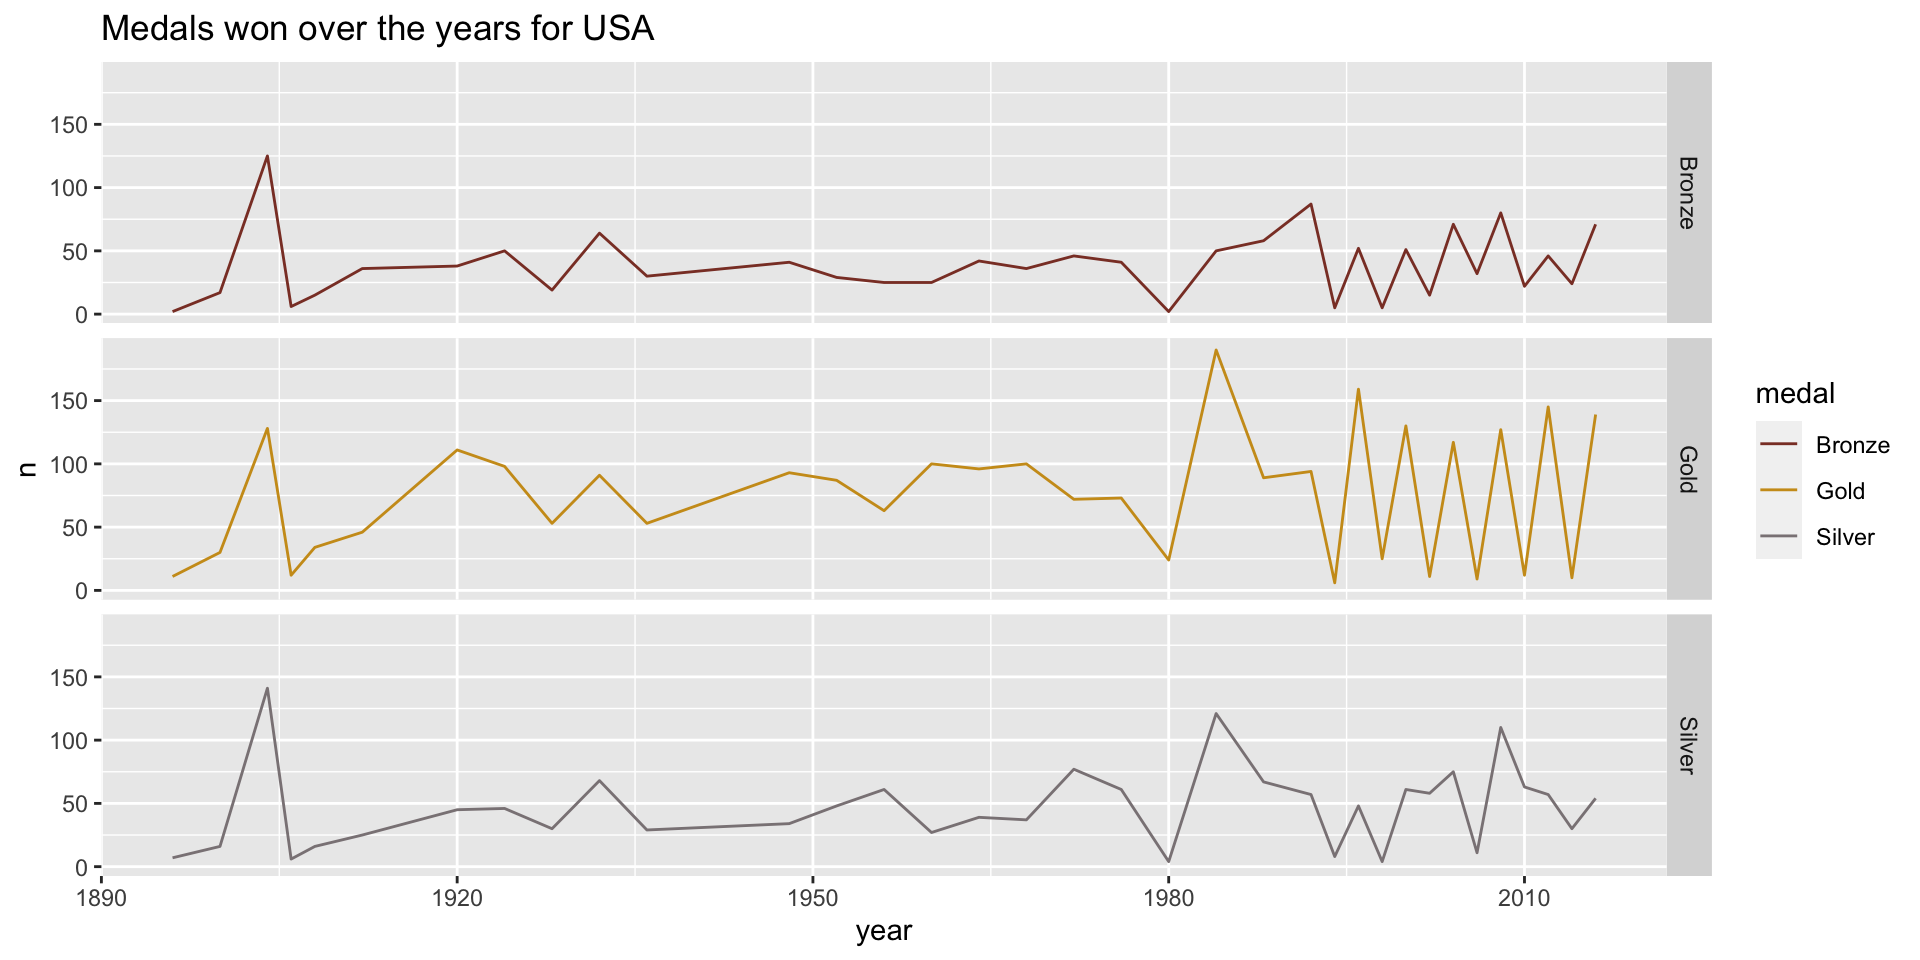
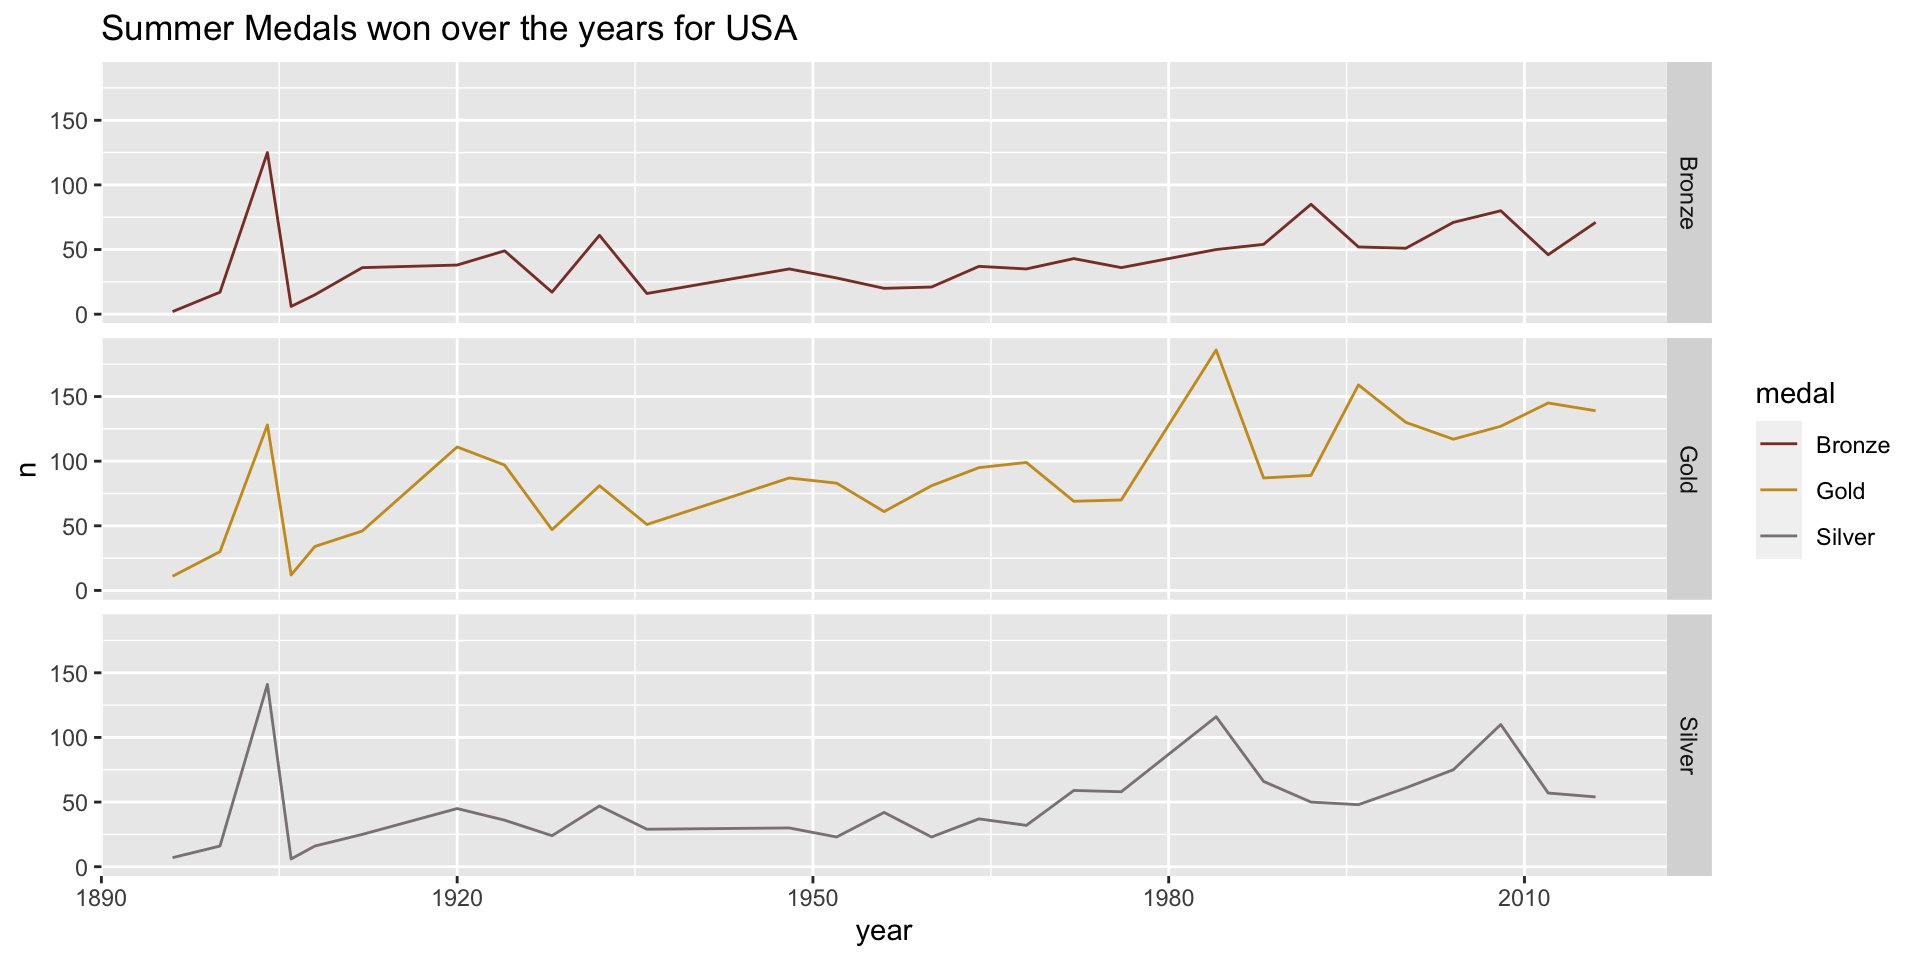
fixed overlaping issue and put comment on feedback

diff --git a/quarto_presentation.html b/quarto_presentation.html
@@ -7,7 +7,7 @@
 <link href="quarto_presentation_files/libs/quarto-html/tippy.css" rel="stylesheet">
 <link href="quarto_presentation_files/libs/quarto-html/quarto-html.min.css" rel="stylesheet" data-mode="light">
 <link href="quarto_presentation_files/libs/quarto-html/quarto-syntax-highlighting.css" rel="stylesheet" id="quarto-text-highlighting-styles"><meta charset="utf-8">
-  <meta name="generator" content="quarto-1.1.251">
+  <meta name="generator" content="quarto-1.1.189">
 
   <title>Olympic Dataset Presentation</title>
   <meta name="apple-mobile-web-app-capable" content="yes">
@@ -481,21 +481,21 @@
 <div class="cell-output cell-output-stdout">
 <pre><code>Rows: 271,116
 Columns: 15
-$ ID     &lt;int&gt; 1, 2, 3, 4, 5, 5, 5, 5, 5, 5, 6, 6, 6, 6, 6, 6, 6, 6, 7, 7, 7, ~
-$ Name   &lt;chr&gt; "A Dijiang", "A Lamusi", "Gunnar Nielsen Aaby", "Edgar Lindenau~
-$ Sex    &lt;chr&gt; "M", "M", "M", "M", "F", "F", "F", "F", "F", "F", "M", "M", "M"~
-$ Age    &lt;int&gt; 24, 23, 24, 34, 21, 21, 25, 25, 27, 27, 31, 31, 31, 31, 33, 33,~
-$ Height &lt;int&gt; 180, 170, NA, NA, 185, 185, 185, 185, 185, 185, 188, 188, 188, ~
-$ Weight &lt;dbl&gt; 80, 60, NA, NA, 82, 82, 82, 82, 82, 82, 75, 75, 75, 75, 75, 75,~
-$ Team   &lt;chr&gt; "China", "China", "Denmark", "Denmark/Sweden", "Netherlands", "~
-$ NOC    &lt;chr&gt; "CHN", "CHN", "DEN", "DEN", "NED", "NED", "NED", "NED", "NED", ~
-$ Games  &lt;chr&gt; "1992 Summer", "2012 Summer", "1920 Summer", "1900 Summer", "19~
-$ Year   &lt;int&gt; 1992, 2012, 1920, 1900, 1988, 1988, 1992, 1992, 1994, 1994, 199~
-$ Season &lt;chr&gt; "Summer", "Summer", "Summer", "Summer", "Winter", "Winter", "Wi~
-$ City   &lt;chr&gt; "Barcelona", "London", "Antwerpen", "Paris", "Calgary", "Calgar~
-$ Sport  &lt;chr&gt; "Basketball", "Judo", "Football", "Tug-Of-War", "Speed Skating"~
-$ Event  &lt;chr&gt; "Basketball Men's Basketball", "Judo Men's Extra-Lightweight", ~
-$ Medal  &lt;chr&gt; NA, NA, NA, "Gold", NA, NA, NA, NA, NA, NA, NA, NA, NA, NA, NA,~</code></pre>
+$ ID     &lt;int&gt; 1, 2, 3, 4, 5, 5, 5, 5, 5, 5, 6, 6, 6, 6, 6, 6, 6, 6, 7, 7, 7, …
+$ Name   &lt;chr&gt; "A Dijiang", "A Lamusi", "Gunnar Nielsen Aaby", "Edgar Lindenau…
+$ Sex    &lt;chr&gt; "M", "M", "M", "M", "F", "F", "F", "F", "F", "F", "M", "M", "M"…
+$ Age    &lt;int&gt; 24, 23, 24, 34, 21, 21, 25, 25, 27, 27, 31, 31, 31, 31, 33, 33,…
+$ Height &lt;int&gt; 180, 170, NA, NA, 185, 185, 185, 185, 185, 185, 188, 188, 188, …
+$ Weight &lt;dbl&gt; 80, 60, NA, NA, 82, 82, 82, 82, 82, 82, 75, 75, 75, 75, 75, 75,…
+$ Team   &lt;chr&gt; "China", "China", "Denmark", "Denmark/Sweden", "Netherlands", "…
+$ NOC    &lt;chr&gt; "CHN", "CHN", "DEN", "DEN", "NED", "NED", "NED", "NED", "NED", …
+$ Games  &lt;chr&gt; "1992 Summer", "2012 Summer", "1920 Summer", "1900 Summer", "19…
+$ Year   &lt;int&gt; 1992, 2012, 1920, 1900, 1988, 1988, 1992, 1992, 1994, 1994, 199…
+$ Season &lt;chr&gt; "Summer", "Summer", "Summer", "Summer", "Winter", "Winter", "Wi…
+$ City   &lt;chr&gt; "Barcelona", "London", "Antwerpen", "Paris", "Calgary", "Calgar…
+$ Sport  &lt;chr&gt; "Basketball", "Judo", "Football", "Tug-Of-War", "Speed Skating"…
+$ Event  &lt;chr&gt; "Basketball Men's Basketball", "Judo Men's Extra-Lightweight", …
+$ Medal  &lt;chr&gt; NA, NA, NA, "Gold", NA, NA, NA, NA, NA, NA, NA, NA, NA, NA, NA,…</code></pre>
 </div>
 </div>
 </div>
@@ -599,7 +599,7 @@ $ Medal  &lt;chr&gt; NA, NA, NA, "Gold", NA, NA, NA, NA, NA, NA, NA, NA, NA, NA,
 <pre><code>[1] 363853</code></pre>
 </div>
 <div class="cell-output cell-output-stdout">
-<pre><code># A tibble: 4 x 2
+<pre><code># A tibble: 4 × 2
 # Groups:   olympic_df$medal [4]
   `olympic_df$medal`      n
   &lt;chr&gt;               &lt;int&gt;
@@ -650,18 +650,18 @@ $ Medal  &lt;chr&gt; NA, NA, NA, "Gold", NA, NA, NA, NA, NA, NA, NA, NA, NA, NA,
 
 </div>
 
-<img data-src="quarto_presentation_files/figure-revealjs/unnamed-chunk-28-1.png" width="960" class="r-stretch"></section>
+<img data-src="quarto_presentation_files/figure-revealjs/unnamed-chunk-14-1.png" width="960" class="r-stretch"></section>
 <section id="q2-what-is-the-total-number-of-athletes-and-sporting-events-for-winter-and-summer-1" class="slide level2">
 <h2>Q2: What is the total number of athletes and sporting events (for winter and summer)?</h2>
 
-<img data-src="quarto_presentation_files/figure-revealjs/unnamed-chunk-30-1.png" width="960" class="r-stretch"></section>
+<img data-src="quarto_presentation_files/figure-revealjs/unnamed-chunk-15-1.png" width="960" class="r-stretch"></section>
 <section id="q3-what-is-the-top-countries-who-won-meadls" class="slide level2">
 <h2>Q3: What is the top countries who won meadls?</h2>
 <div class="cell">
 
 </div>
 
-<img data-src="quarto_presentation_files/figure-revealjs/unnamed-chunk-34-1.png" width="960" class="r-stretch"><div class="cell">
+<img data-src="quarto_presentation_files/figure-revealjs/unnamed-chunk-17-1.png" width="960" class="r-stretch"><div class="cell">
 
 </div>
 </section>
@@ -676,50 +676,66 @@ $ Medal  &lt;chr&gt; NA, NA, NA, "Gold", NA, NA, NA, NA, NA, NA, NA, NA, NA, NA,
 </div>
 </div>
 </section>
-<section id="top-3-countries-performance" class="slide level2">
-<h2>Top 3 countries performance:</h2>
+<section id="top-3-countries-performance-usa" class="slide level2">
+<h2>Top 3 countries performance (USA)</h2>
 <div class="panel-tabset">
-<ul id="tabset-2" class="panel-tabset-tabby"><li><a data-tabby-default="" href="#tabset-2-1">United States in Summer</a></li><li><a href="#tabset-2-2">United States in Winter</a></li><li><a href="#tabset-2-3">France in Summer</a></li><li><a href="#tabset-2-4">France in Winter</a></li><li><a href="#tabset-2-5">United Kingdom in Summer</a></li><li><a href="#tabset-2-6">United Kingdom in Winter</a></li></ul>
+<ul id="tabset-2" class="panel-tabset-tabby"><li><a data-tabby-default="" href="#tabset-2-1">USA - Summer</a></li><li><a href="#tabset-2-2">USA - Winter</a></li></ul>
 <div class="tab-content">
 <div id="tabset-2-1">
 <div class="cell">
 <div class="cell-output-display">
-<p><img data-src="quarto_presentation_files/figure-revealjs/unnamed-chunk-40-1.png" width="960"></p>
+<p><img data-src="quarto_presentation_files/figure-revealjs/unnamed-chunk-20-1.png" width="960"></p>
 </div>
 </div>
 </div>
 <div id="tabset-2-2">
 <div class="cell">
 <div class="cell-output-display">
-<p><img data-src="quarto_presentation_files/figure-revealjs/unnamed-chunk-42-1.png" width="960"></p>
+<p><img data-src="quarto_presentation_files/figure-revealjs/unnamed-chunk-21-1.png" width="960"></p>
 </div>
 </div>
 </div>
-<div id="tabset-2-3">
+</div>
+</div>
+</section>
+<section id="top-3-countries-performance-france" class="slide level2">
+<h2>Top 3 countries performance (France)</h2>
+<div class="panel-tabset">
+<ul id="tabset-3" class="panel-tabset-tabby"><li><a data-tabby-default="" href="#tabset-3-1">France - Summer</a></li><li><a href="#tabset-3-2">France - Winter</a></li></ul>
+<div class="tab-content">
+<div id="tabset-3-1">
 <div class="cell">
 <div class="cell-output-display">
-<p><img data-src="quarto_presentation_files/figure-revealjs/unnamed-chunk-44-1.png" width="960"></p>
+<p><img data-src="quarto_presentation_files/figure-revealjs/unnamed-chunk-22-1.png" width="960"></p>
 </div>
 </div>
 </div>
-<div id="tabset-2-4">
+<div id="tabset-3-2">
 <div class="cell">
 <div class="cell-output-display">
-<p><img data-src="quarto_presentation_files/figure-revealjs/unnamed-chunk-46-1.png" width="960"></p>
+<p><img data-src="quarto_presentation_files/figure-revealjs/unnamed-chunk-23-1.png" width="960"></p>
 </div>
 </div>
 </div>
-<div id="tabset-2-5">
+</div>
+</div>
+</section>
+<section id="top-3-countries-performance-uk" class="slide level2">
+<h2>Top 3 countries performance (UK)</h2>
+<div class="panel-tabset">
+<ul id="tabset-4" class="panel-tabset-tabby"><li><a data-tabby-default="" href="#tabset-4-1">UK - Summer</a></li><li><a href="#tabset-4-2">UK - Winter</a></li></ul>
+<div class="tab-content">
+<div id="tabset-4-1">
 <div class="cell">
 <div class="cell-output-display">
-<p><img data-src="quarto_presentation_files/figure-revealjs/unnamed-chunk-48-1.png" width="960"></p>
+<p><img data-src="quarto_presentation_files/figure-revealjs/unnamed-chunk-24-1.png" width="960"></p>
 </div>
 </div>
 </div>
-<div id="tabset-2-6">
+<div id="tabset-4-2">
 <div class="cell">
 <div class="cell-output-display">
-<p><img data-src="quarto_presentation_files/figure-revealjs/unnamed-chunk-50-1.png" width="960"></p>
+<p><img data-src="quarto_presentation_files/figure-revealjs/unnamed-chunk-25-1.png" width="960"></p>
 </div>
 </div>
 </div>
@@ -729,30 +745,30 @@ $ Medal  &lt;chr&gt; NA, NA, NA, "Gold", NA, NA, NA, NA, NA, NA, NA, NA, NA, NA,
 <section id="q5-how-many-male-and-females-participated-in-the-olympics" class="slide level2">
 <h2>Q5: How many male and females participated in the Olympics?</h2>
 
-<img data-src="quarto_presentation_files/figure-revealjs/unnamed-chunk-52-1.png" width="960" class="r-stretch"></section>
+<img data-src="quarto_presentation_files/figure-revealjs/unnamed-chunk-26-1.png" width="960" class="r-stretch"></section>
 <section id="q6-what-is-the-percentage-of-male-vs.-female-athletes-throughout-the-years-of-olympic-history" class="slide level2">
 <h2>Q6: What is the percentage of male vs.&nbsp;female athletes throughout the years of Olympic history?</h2>
 
-<img data-src="quarto_presentation_files/figure-revealjs/unnamed-chunk-54-1.png" width="960" class="r-stretch"></section>
+<img data-src="quarto_presentation_files/figure-revealjs/unnamed-chunk-27-1.png" width="960" class="r-stretch"></section>
 <section id="q7-can-we-compare-men-and-women-winners-over-the-years-for-summer-and-winter" class="slide level2">
 <h2>Q7: Can we compare men and women winners over the years for summer and winter?</h2>
 </section>
 <section id="q7-can-we-compare-men-and-women-winners" class="slide level2">
 <h2>Q7: Can we compare men and women winners …</h2>
 <div class="panel-tabset">
-<ul id="tabset-3" class="panel-tabset-tabby"><li><a data-tabby-default="" href="#tabset-3-1">Summer</a></li><li><a href="#tabset-3-2">Winter:</a></li></ul>
+<ul id="tabset-5" class="panel-tabset-tabby"><li><a data-tabby-default="" href="#tabset-5-1">Summer</a></li><li><a href="#tabset-5-2">Winter:</a></li></ul>
 <div class="tab-content">
-<div id="tabset-3-1">
+<div id="tabset-5-1">
 <div class="cell">
 <div class="cell-output-display">
-<p><img data-src="quarto_presentation_files/figure-revealjs/unnamed-chunk-56-1.png" width="960"></p>
+<p><img data-src="quarto_presentation_files/figure-revealjs/unnamed-chunk-28-1.png" width="960"></p>
 </div>
 </div>
 </div>
-<div id="tabset-3-2">
+<div id="tabset-5-2">
 <div class="cell">
 <div class="cell-output-display">
-<p><img data-src="quarto_presentation_files/figure-revealjs/unnamed-chunk-58-1.png" width="960"></p>
+<p><img data-src="quarto_presentation_files/figure-revealjs/unnamed-chunk-29-1.png" width="960"></p>
 </div>
 </div>
 </div>
@@ -762,11 +778,11 @@ $ Medal  &lt;chr&gt; NA, NA, NA, "Gold", NA, NA, NA, NA, NA, NA, NA, NA, NA, NA,
 <section id="q8-how-many-medal-have-been-won-by-male-vs.-female" class="slide level2">
 <h2>Q8: How many medal have been won by male vs.&nbsp;female?</h2>
 
-<img data-src="quarto_presentation_files/figure-revealjs/unnamed-chunk-60-1.png" width="960" class="r-stretch"></section>
+<img data-src="quarto_presentation_files/figure-revealjs/unnamed-chunk-30-1.png" width="960" class="r-stretch"></section>
 <section id="q9-what-is-the-average-age-for-both-male-and-female-athletes-in-all-sorts-of-sports" class="slide level2">
 <h2>Q9: What is the average age for both male and female athletes in all sorts of sports?</h2>
 
-<img data-src="quarto_presentation_files/figure-revealjs/unnamed-chunk-62-1.png" width="960" class="r-stretch"></section>
+<img data-src="quarto_presentation_files/figure-revealjs/unnamed-chunk-31-1.png" width="960" class="r-stretch"></section>
 <section id="q10-is-there-a-relation-between-athletes-gender-and-their-winning-to-their-olympic-game" class="slide level2">
 <h2>Q10: Is there a relation between athletes’ gender and their winning to their olympic game?</h2>
 <div class="cell">
@@ -776,19 +792,19 @@ $ Medal  &lt;chr&gt; NA, NA, NA, "Gold", NA, NA, NA, NA, NA, NA, NA, NA, NA, NA,
 <section id="q10-is-there-a-relation-between-athletes" class="slide level2">
 <h2>Q10: Is there a relation between athletes’ …</h2>
 <div class="panel-tabset">
-<ul id="tabset-4" class="panel-tabset-tabby"><li><a data-tabby-default="" href="#tabset-4-1">Women</a></li><li><a href="#tabset-4-2">Men</a></li></ul>
+<ul id="tabset-6" class="panel-tabset-tabby"><li><a data-tabby-default="" href="#tabset-6-1">Women</a></li><li><a href="#tabset-6-2">Men</a></li></ul>
 <div class="tab-content">
-<div id="tabset-4-1">
+<div id="tabset-6-1">
 <div class="cell">
 <div class="cell-output-display">
-<p><img data-src="quarto_presentation_files/figure-revealjs/unnamed-chunk-66-1.png" width="960"></p>
+<p><img data-src="quarto_presentation_files/figure-revealjs/unnamed-chunk-33-1.png" width="960"></p>
 </div>
 </div>
 </div>
-<div id="tabset-4-2">
+<div id="tabset-6-2">
 <div class="cell">
 <div class="cell-output-display">
-<p><img data-src="quarto_presentation_files/figure-revealjs/unnamed-chunk-68-1.png" width="960"></p>
+<p><img data-src="quarto_presentation_files/figure-revealjs/unnamed-chunk-34-1.png" width="960"></p>
 </div>
 </div>
 </div>
@@ -803,11 +819,11 @@ $ Medal  &lt;chr&gt; NA, NA, NA, "Gold", NA, NA, NA, NA, NA, NA, NA, NA, NA, NA,
 <section id="women-growth-since-they-joined-the-olympics" class="slide level2">
 <h2>Women growth since they joined the olympics</h2>
 
-<img data-src="quarto_presentation_files/figure-revealjs/unnamed-chunk-70-1.png" width="960" class="r-stretch"></section>
+<img data-src="quarto_presentation_files/figure-revealjs/unnamed-chunk-35-1.png" width="960" class="r-stretch"></section>
 <section id="men-and-women-constantly-growth" class="slide level2">
 <h2>Men and women constantly growth</h2>
 
-<img data-src="quarto_presentation_files/figure-revealjs/unnamed-chunk-72-1.png" width="960" class="r-stretch"></section></section>
+<img data-src="quarto_presentation_files/figure-revealjs/unnamed-chunk-36-1.png" width="960" class="r-stretch"></section></section>
 <section>
 <section id="step-5-summary" class="title-slide slide level1 center">
 <h1>Step 5 (Summary)</h1>
